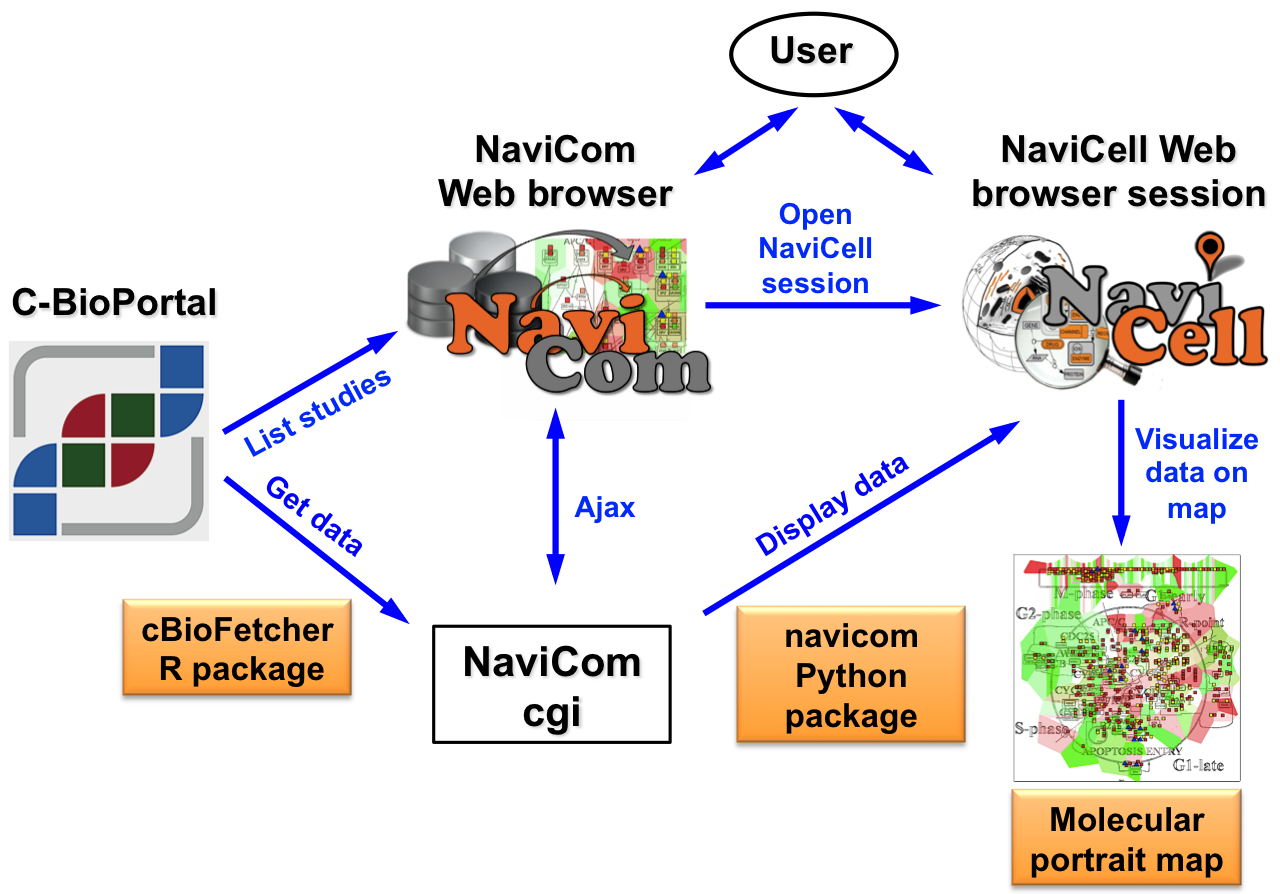
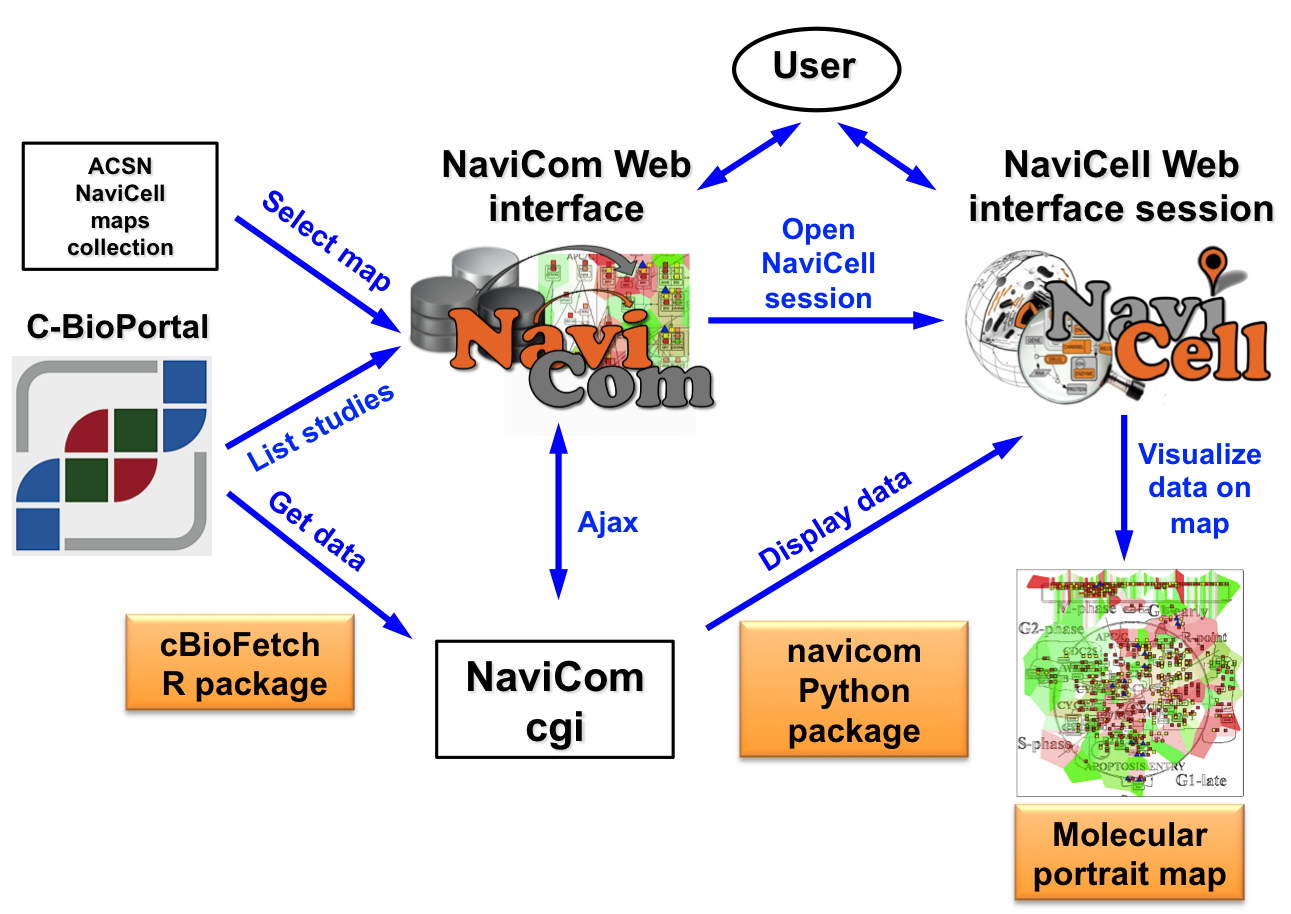
Update tutorial with application example
Add application example
Add the docx documentation
Update the architecture picture

diff --git a/tutorial.php b/tutorial.php
@@ -14,7 +14,7 @@
 
     <section>
     <p>
-        This documentation has a <a href="tutorial.pdf">pdf version</a>.
+        This documentation also exists as a <a href="tutorial.pdf">pdf version</a> or a <a href="NaviCom_tutorial.docx">docx version</a>.
     </p>
     </section>
 
@@ -185,6 +185,31 @@
                 <strong>Gateway TimeOut</strong>: wait a few minutes and try again<br/>
                 <span class="meaning">the requested data were not cached yet, and were too big to be downloaded in less than 5 minutes.</span>
             </p>
+
+            <h3>Application examples</h3>
+
+            <center>
+                <img img src="images/tutorial/Adrenocortical_Carcinoma_92_samples_CellCycle_Expression_mutations.png" alt="Organisation of the NaviCom service" width='50%'/>
+            </center>
+            <center>
+                <img img src="images/tutorial/Adrenocortical_Carcinoma_92_samples_CellCycle_Expression_mutations_zoom.png" alt="Organisation of the NaviCom service" width='30%'/>
+            </center>
+            <center>
+                Adrenocortical Carcinoma "Expression and mutations"<br/>
+                <em>expression-map staining / mutations-blue triangle</em>
+            </center>
+
+            <p>
+            </p>
+
+            <center>
+                <img img src="images/tutorial/Adrenocortical_Carcinoma_92_samples_CellCycle_triple.png" alt="Organisation of the NaviCom service" width='50%'/>
+            </center>
+            <center>
+                Adrenocortical Carcinoma "Mutations and genomic data"<br/>
+                <em>expression-map staining / copy number-heat map/ mutations-blue triangle</em>
+            </center>
+
         </section>
 
     <?php
